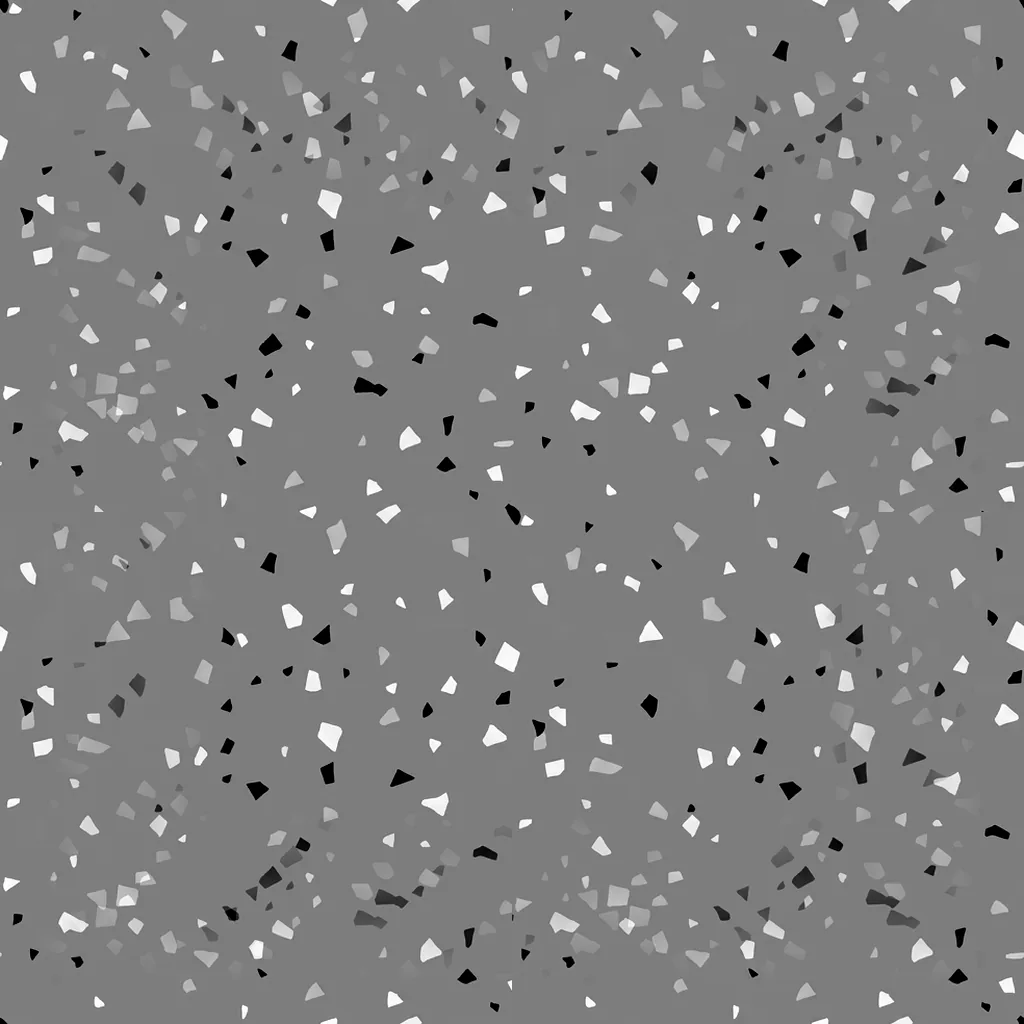
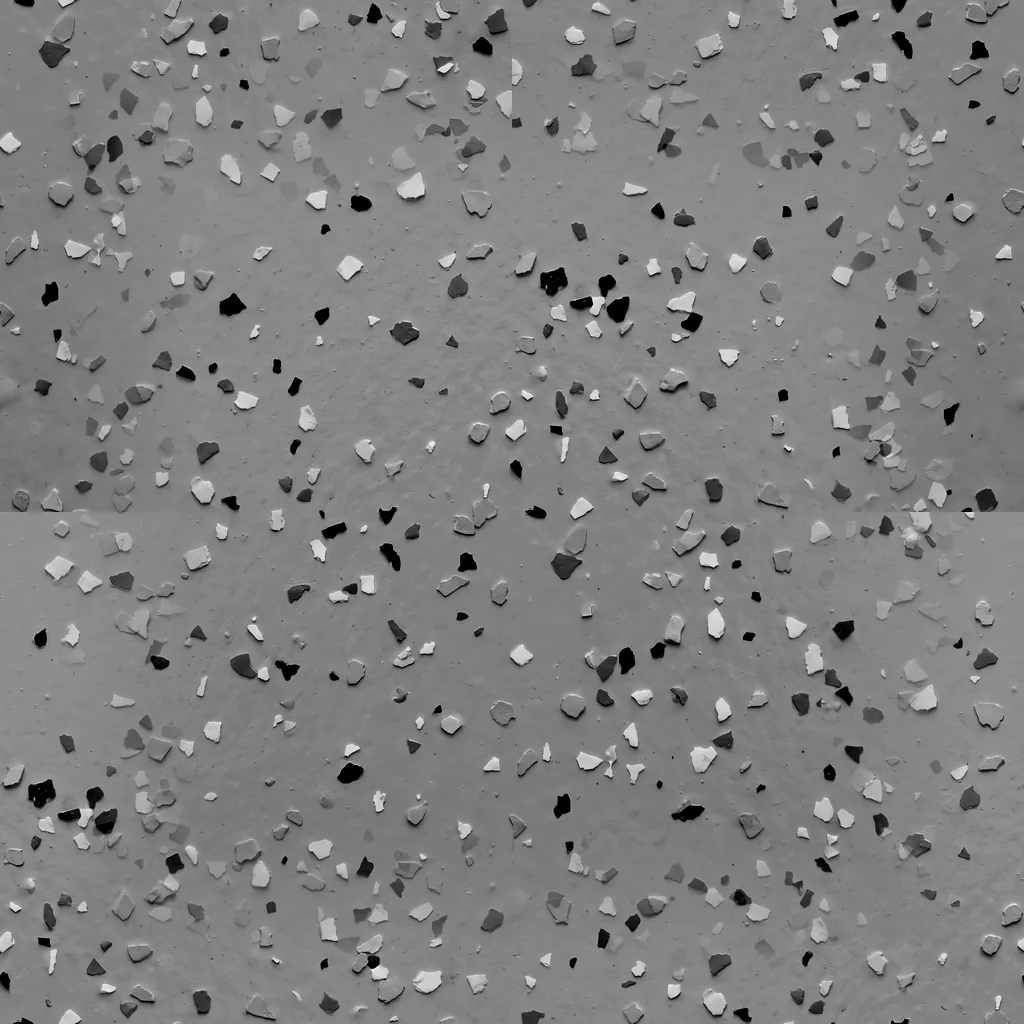
Uslugi: kafle o 20% mniejsze

diff --git a/warianty/dom-rozkladany.html b/warianty/dom-rozkladany.html
@@ -107,10 +107,11 @@ button{font-family:inherit}
   max-height:calc(min(68vh,640px) + 86px);overflow-y:auto;position:relative}
 @media(max-width:1020px){.panel{max-height:none}}
 .panel .in{animation:wej .45s var(--ease)}
+.ptitle{background:var(--accent);color:#fff;font-weight:800;font-size:1.05rem;line-height:1.25;letter-spacing:.01em;padding:.8rem 1rem;border-radius:10px;margin:0 0 16px;box-shadow:0 6px 14px rgba(192,90,60,.22)}
 /* osadzone w iframe na stronie glownej: bez vh (vh liczy sie od ramki) */
 .embed body{overflow:hidden}
 .embed .stage{height:460px}
-.embed .panel{max-height:550px}
+.embed .panel{max-height:572px}
 .embed .q-in{max-height:300px}
 @media(max-width:700px){.embed .stage{height:440px;min-height:0}}
 @keyframes wej{from{opacity:0;transform:translateY(10px)}to{opacity:1;transform:none}}
@@ -201,7 +202,7 @@ ul.layers li small{margin-left:auto;color:var(--muted);font-size:.7rem}
 @media(max-width:700px){.quick{width:170px;top:58px}.q-in{padding:7px 7px 9px}.q-txt{font-size:.68rem}.q-spec{font-size:.66rem;padding:.5rem .7rem .5rem 1.3rem}.q-tyt{font-size:.85rem}.qba{aspect-ratio:1/1}}
 @media(prefers-reduced-motion:reduce){.quick,.q-spec{transition:opacity .2s}.q-spec{transform:none}}
 /* szerokie ekrany: panel przed/po stoi w wolnym polu po lewej, a strzalka wstecz w lewym gornym rogu poza scena */
-@media(min-width:1650px){.stage{overflow:visible}#cv{border-radius:14px}.quick{left:-150px;top:0;width:262px}.qba{aspect-ratio:4/5}.q-in,.embed .q-in{max-height:none}.nav-back{left:-119px;top:-104px}}
+@media(min-width:1650px){.stage{overflow:visible}#cv{border-radius:14px}.quick{left:-150px;top:0;width:262px;gap:6px}.qba{aspect-ratio:11/6}.q-in,.embed .q-in{max-height:none;padding:8px 8px 10px}.q-tyt{margin:.5rem 0 .2rem;font-size:.95rem}.q-txt{font-size:.74rem;line-height:1.4}.q-spec{padding:.5rem 1rem .5rem 1.7rem}.nav-back{left:-205px;top:-105px}}
 /* panel po prawej: najwazniejsze informacje */
 .fakty{list-style:none;margin:0;padding:0;display:grid;gap:.5rem}
 .fakty li{display:grid;grid-template-columns:96px 1fr;gap:.6rem;font-size:.84rem;line-height:1.4;color:#2d3238}
@@ -1017,7 +1018,7 @@ const TEX_GOTOWA = {
   "dachowka-detal": () => redraw(texCover, drawCover),
   "dachowka-normal": im => dodajN([M.pokrycie], texN(im, 1024, 256, 128, true), COVER_N[coverState.typ] ?? .5)
 };
-Object.keys(TEX_GOTOWA).forEach(n => { const im = new Image(); im.onload = () => { TEXP[n] = im; TEX_GOTOWA[n](im); }; im.src = "tex/" + n + ".webp?v=8"; });
+Object.keys(TEX_GOTOWA).forEach(n => { const im = new Image(); im.onload = () => { TEXP[n] = im; TEX_GOTOWA[n](im); }; im.src = "tex/" + n + ".webp?v=9"; });
 // rzygacz przez attyke + rynna wzdluz prawego boku + rura spustowa
 { const ry = reg("garaz-dach", ink(box(.42, .1, .26, M.rynna))); ry.position.set(GX1 + .3, BASE - .1, GCZ); scene.add(ry);
   const half = new THREE.CylinderGeometry(.11, .11, GD + .3, 18, 1, true, Math.PI / 2, Math.PI);
@@ -1154,7 +1155,7 @@ MODES.wymiana = {part:"dach", krotko:"Wymiana dachu", kicker:"Dach · wymiana po
   lead:"Rozbieramy dach do więźby i składamy go od nowa — warstwa po warstwie. Wybierz pokrycie pod domem, a model pokaże je od razu.",
   enter(){ S.flash = 0; tw("roofT", 1, 1700, ease, () => { if (mode === "wymiana") tw("flash", 1, 1100); }); },
   exit(){ tw("flash", 0, 350); setTimeout(() => tw("roofT", 0, 1200), 250); tw("eternitOut", 0, 600); },
-  panel(){ return head(this) + layersList(roofLayersData(), "Z czego składa się dach (od środka)") +
+  panel(){ return '<div class="ptitle">Wymiana pokrycia dachowego</div>' + layersList(roofLayersData(), "Z czego składa się dach (od środka)") +
     '<div class="act"><button class="btn btn-g" id="bEternit">▶ Pokaż demontaż eternitu</button><button class="btn btn-g" id="bZloz">Złóż / rozłóż dach</button></div>' +
     steps(["Demontaż starego pokrycia — eternit usuwamy i utylizujemy zgodnie z przepisami", "Przegląd więźby, wymiana lub wzmocnienie uszkodzonych elementów", "Deskowanie i membrana dachowa", "Kontrłaty i łaty — wentylowana szczelina pod pokryciem", "Nowe pokrycie: ceramika, cement albo blachodachówka", "Obróbki, gąsiory, rynny i odbiór"]) +
     why(["Jeden wykonawca od demontażu po rynny", "Eternit znika z Twojego dachu na dobre", "Nowa warstwa ochronna pod pokryciem"]) + CTA; },
@@ -1296,7 +1297,7 @@ function go(next, fromBack){
 /* ---------- zdarzenia UI */
 document.addEventListener("click", e => {
   const g = e.target.closest("[data-go]"); if (g){ e.preventDefault(); go(g.dataset.go); return; }
-  const ty = e.target.closest("[data-typ]"); if (ty){ roofTyp = ty.dataset.typ; setCover(roofTyp, COVER[roofTyp].kolory[0][1]); renderBar(); if (mode === "wymiana") renderPanel(); return; }
+  const ty = e.target.closest("[data-typ]"); if (ty){ roofTyp = ty.dataset.typ; setCover(roofTyp, COVER[roofTyp].kolory[0][1]); renderBar(); if (mode === "wymiana") renderPanel(); if (mode === "dachowka" || mode === "wymiana") renderQuick(); return; }
   const cv_ = e.target.closest("[data-cover]"); if (cv_){ setCover(roofTyp, cv_.dataset.cover); renderBar(); if (mode === "wymiana") renderPanel(); return; }
   const f = e.target.closest("[data-fas]"); if (f){ setFacade(f.dataset.fas); renderBar(); return; }
   const fl = e.target.closest("[data-flo]"); if (fl){ setFloor(fl.dataset.flo); renderBar(); return; }
@@ -1430,10 +1431,10 @@ const esc = s => String(s).replace(/[&<>"]/g, c => ({"&":"&amp;","<":"&lt;",">":
 function renderQuick(){
   const q = mode !== "dom" && !sel ? QUICK[mode] : null;
   if (!q){ quickEl.classList.remove("on"); return; }
-  const pp = (GAL_DATA.przedpo || {})[mode];
+  const PPD = GAL_DATA.przedpo || {}, pp = (mode === "dachowka" || mode === "wymiana") ? (PPD["dachowka-" + roofTyp] || PPD[mode]) : PPD[mode];
   quickEl.classList.remove("on");
   quickEl.innerHTML = `<div class="q-card"><button class="q-x" type="button" aria-label="Zamknij">×</button><div class="q-in">` +
-    (pp ? `<div class="qba" id="qba"><img src="${galSrc(pp.przed)}?v=3" alt="Przed"><img class="qpo" src="${galSrc(pp.po)}?v=3" alt="Po"><span class="qh"></span><span class="ql">Przed</span><span class="qr">Po</span></div>` : "") +
+    (pp ? `<div class="qba" id="qba"><img src="${galSrc(pp.przed)}?v=4" alt="Przed"><img class="qpo" src="${galSrc(pp.po)}?v=4" alt="Po"><span class="qh"></span><span class="ql">Przed</span><span class="qr">Po</span></div>` : "") +
     `<div class="q-tyt">${q[0]}</div><p class="q-txt">${q[1]}</p></div></div>` +
     (mode === "odnowa" ? `<div class="q-spec${specOn ? " show" : ""}"><b>Nasza specjalność</b>akrylowanie okien</div>` : "");
   requestAnimationFrame(() => requestAnimationFrame(() => { if (mode !== "dom" && !sel) quickEl.classList.add("on"); }));

diff --git a/index.html b/index.html
@@ -302,15 +302,15 @@ h2.sec{font-size:clamp(1.5rem,2.8vw,2.2rem);font-weight:800;letter-spacing:-.01e
 #uslugi .eyebrow,#uslugi h2.sec,#uslugi .lead-d{text-align:center;margin-left:auto;margin-right:auto}
 #uslugi h2.sec{max-width:none;font-size:clamp(1.6rem,3vw,2.6rem)}
 #uslugi .lead-d{max-width:820px}
-#uslugi .tiles{gap:clamp(10px,1.2vw,22px);margin-top:2rem}
-#uslugi .tile{height:clamp(260px,25vw,470px);border-radius:8px}
-#uslugi .tile .tcont{padding:clamp(1rem,1.6vw,1.9rem)}
-#uslugi .tile h3{font-size:clamp(1.15rem,1.55vw,1.75rem);line-height:1.2}
-#uslugi .tile p{font-size:clamp(.82rem,.95vw,1.02rem);-webkit-line-clamp:3;max-width:34em}
+#uslugi .tiles{gap:clamp(8px,1vw,18px);margin:2rem auto 0;max-width:80vw}
+#uslugi .tile{height:clamp(208px,20vw,376px);border-radius:8px}
+#uslugi .tile .tcont{padding:clamp(.9rem,1.3vw,1.5rem)}
+#uslugi .tile h3{font-size:clamp(1.05rem,1.25vw,1.4rem);line-height:1.2}
+#uslugi .tile p{font-size:clamp(.78rem,.8vw,.9rem);-webkit-line-clamp:3;max-width:34em}
 #uslugi .tile .go{font-size:clamp(.72rem,.8vw,.86rem)}
-.pe-on #uslugi .tile{height:auto;min-height:clamp(260px,25vw,470px)}
-@media(max-width:1000px){#uslugi .tile{height:clamp(240px,42vw,380px)}}
-@media(max-width:560px){#uslugi .tile{height:260px}}
+.pe-on #uslugi .tile{height:auto;min-height:clamp(208px,20vw,376px)}
+@media(max-width:1000px){#uslugi .tiles{max-width:none}#uslugi .tile{height:clamp(200px,34vw,304px)}}
+@media(max-width:560px){#uslugi .tile{height:210px}}
 .why{background:#fff;border-top:1px solid var(--line);border-bottom:1px solid var(--line)}
 .why .in{max-width:1300px;margin:0 auto;padding:4.5rem 1.6rem;display:grid;grid-template-columns:1fr 1fr;gap:3rem;align-items:start}
 .why ol{list-style:none;counter-reset:st;margin-top:1.6rem}
